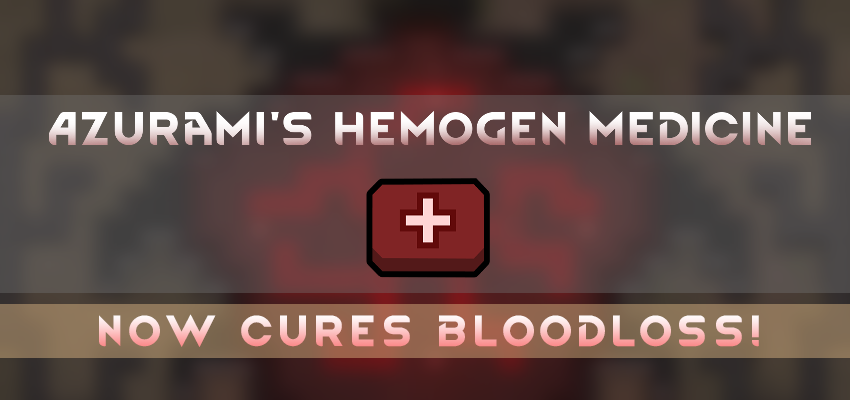
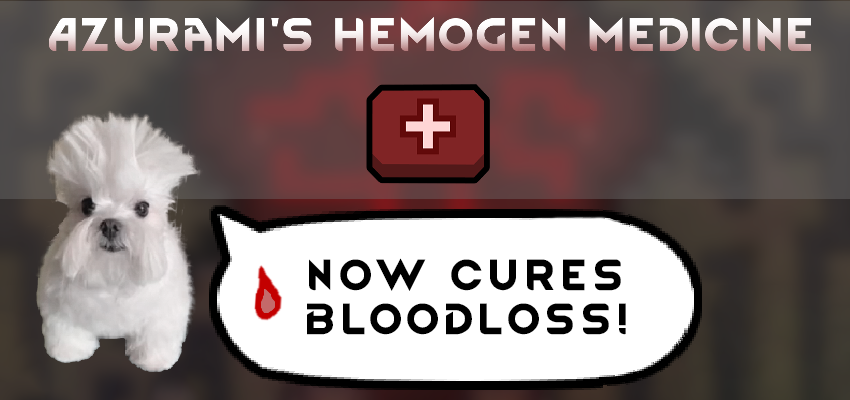
ok it works now

diff --git a/Source/Main.cs b/Source/Main.cs
@@ -1,47 +1,55 @@
-using System;
-using System.Collections.Generic;
-using System.Diagnostics;
-using System.Linq;
-using System.Text;
-
-using UnityEngine;
-using Verse;
-using Verse.AI;
-using Verse.AI.Group;
-using Verse.Sound;
-using Verse.Noise;
-using Verse.Grammar;
+using Verse;
 using RimWorld;
-using RimWorld.Planet;
+using HarmonyLib;
 
-// using System.Reflection;
-// using HarmonyLib;
-
-namespace Template
+namespace HemogenMedicineBloodloss
 {
-    [DefOf]
-    public class TemplateDefOf
-    {
-        public static LetterDef success_letter;
-    }
 
-    public class MyMapComponent : MapComponent
-    {
-        public MyMapComponent(Map map) : base(map){}
-        public override void FinalizeInit()
-        {
-            Messages.Message("Success", null, MessageTypeDefOf.PositiveEvent);
-            Find.LetterStack.ReceiveLetter("Success", TemplateDefOf.success_letter.description, TemplateDefOf.success_letter, null);
-        }
-    }
 
     [StaticConstructorOnStartup]
-    public static class Start
+    public static class HemogenMedicineBloodloss
     {
-        static Start()
+        static HemogenMedicineBloodloss()
         {
-            Log.Message("Mod template loaded successfully!");
+            Log.Message("HemogenMedicineBloodloss loaded successfully!");
+
+            Harmony harmony = new Harmony("rimworld.mod.dogwithafro.hemogenmedicinebloodloss");
+            harmony.Patch(AccessTools.Method(typeof(TendUtility), nameof(TendUtility.DoTend)), 
+                postfix: new HarmonyMethod(typeof(HemogenMedicineBloodloss), nameof(DoTend_PostFix)));
+        }
+
+        private static void DoTend_PostFix(Pawn doctor, Pawn patient, Medicine medicine)
+        {
+            //check if medicine is even present lol
+            if(medicine != null)
+            {
+                //check if medicine has the mod extension "CuresBloodloss" as true
+                if (medicine.def.HasModExtension<CuresBloodlossModExtension>())
+                {
+                    CuresBloodlossModExtension extension = medicine.def.GetModExtension<CuresBloodlossModExtension>();
+                    if (extension.CuresBloodloss)
+                    {
+                        //check if patient has hediff BloodLoss
+                        Hediff bloodloss = patient.health.hediffSet.GetFirstHediffOfDef(HediffDefOf.BloodLoss);
+                        if (bloodloss != null)
+                        {
+                            //remove hediff BloodLoss
+                            patient.health.RemoveHediff(bloodloss);
+                        }
+                    }
+                }
+            }
         }
     }
 
+
+    public class HemogenMedicineBloodlossConfig : Mod
+    {
+        public HemogenMedicineBloodlossConfig(ModContentPack content) : base(content)
+        {
+            Log.Message("Inherited HemogenMedicineBloodloss Config class loaded");
+        }
+    }
 }
+
+

diff --git a/Source/CuresBloodlossModExtension.cs b/Source/CuresBloodlossModExtension.cs
@@ -1,0 +1,9 @@
+using Verse;
+
+namespace HemogenMedicineBloodloss
+{
+    public class CuresBloodlossModExtension : DefModExtension
+    {
+        public bool CuresBloodloss = false;
+    }
+}
